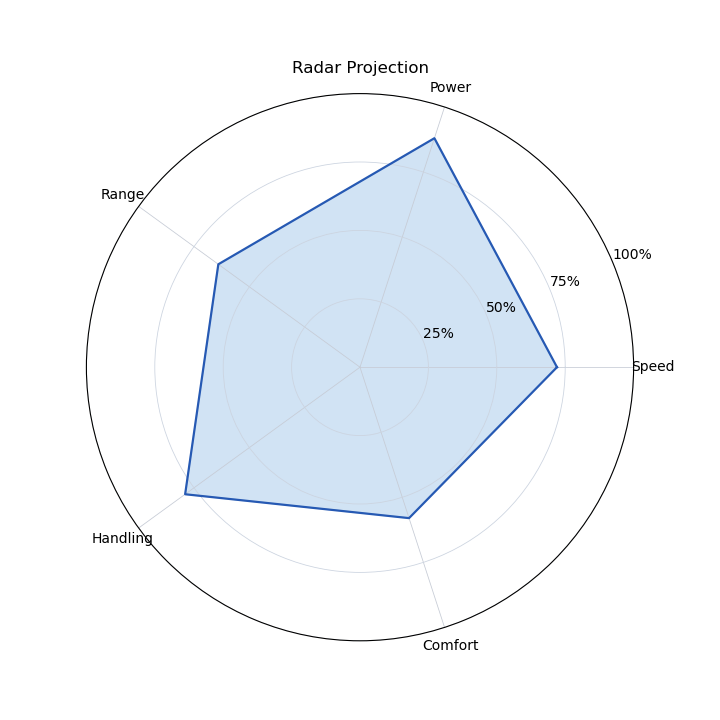
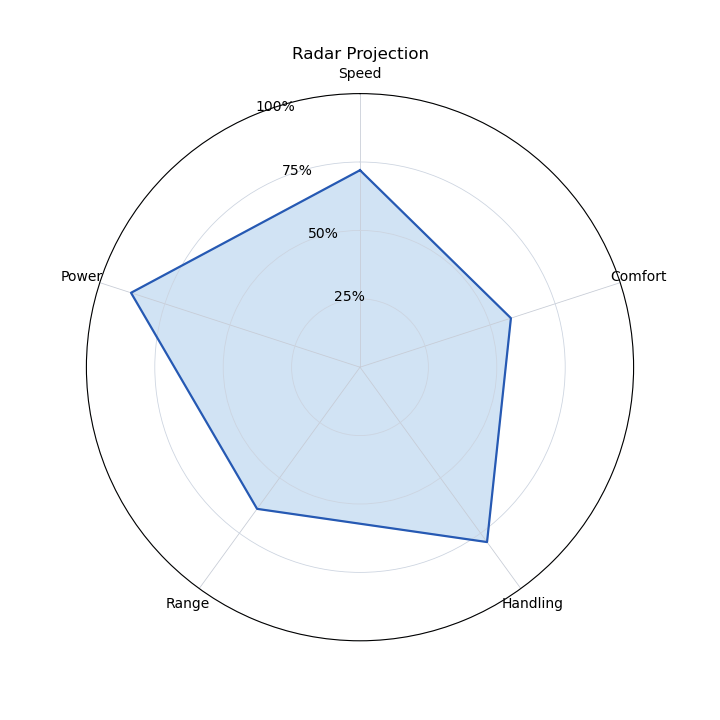
feat: implement shaped glyph rendering and add related tests

diff --git a/backends/agg/agg.go b/backends/agg/agg.go
@@ -18,6 +18,8 @@ import (
 	agglib "github.com/cwbudde/agg_go"
 	"github.com/cwbudde/matplotlib-go/internal/geom"
 	"github.com/cwbudde/matplotlib-go/render"
+	"golang.org/x/image/font/sfnt"
+	"golang.org/x/image/math/fixed"
 )
 
 // dejaVuFontPath holds the path to the extracted DejaVu Sans TTF, initialised once.
@@ -564,9 +566,134 @@ func (r *Renderer) DrawGouraudTriangles(batch render.GouraudTriangleBatch) bool 
 }
 
 // GlyphRun draws a run of glyphs.
-func (r *Renderer) GlyphRun(_ render.GlyphRun, _ render.Color) {
-	// GlyphRun requires glyph-ID-to-character mapping.
-	// Text rendering is done through DrawText helper instead.
+func (r *Renderer) GlyphRun(run render.GlyphRun, textColor render.Color) {
+	if len(run.Glyphs) == 0 || run.Size <= 0 || r.ctx == nil {
+		return
+	}
+
+	if run.FontKey != "" {
+		r.lastFontKey = run.FontKey
+	}
+
+	font := r.configureTextFont(run.Size, r.lastFontKey)
+	if font.backend != textBackendRaster {
+		r.fallback = true
+		_ = r.drawGlyphRunLegacy(run, textColor, r.fontPixelSize(font.size))
+		return
+	}
+
+	if r.drawGlyphRunAsPaths(font.face, run, textColor) {
+		return
+	}
+
+	r.fallback = true
+	_ = r.drawGlyphRunLegacy(run, textColor, r.fontPixelSize(font.size))
+}
+
+func (r *Renderer) drawGlyphRunAsPaths(face render.FontFace, run render.GlyphRun, textColor render.Color) bool {
+	if r.ctx == nil {
+		return false
+	}
+
+	fontSize := r.fontPixelSize(run.Size)
+	if fontSize <= 0 {
+		return false
+	}
+
+	fontData, err := loadSFNTFontFace(face)
+	if err != nil {
+		return false
+	}
+
+	ppem := fixed.Int26_6(math.Round(fontSize * 64))
+	if ppem <= 0 {
+		return false
+	}
+
+	var (
+		path  geom.Path
+		buf   sfnt.Buffer
+		drawn bool
+	)
+	for _, glyph := range run.Glyphs {
+		if glyph.ID == 0 {
+			continue
+		}
+		segments, err := fontData.LoadGlyph(&buf, sfnt.GlyphIndex(glyph.ID), ppem, nil)
+		if err != nil || len(segments) == 0 {
+			continue
+		}
+		appendGlyphSegments(&path, segments, geom.Pt{
+			X: run.Origin.X + glyph.Offset.X,
+			Y: run.Origin.Y + glyph.Offset.Y,
+		})
+		drawn = true
+	}
+	if !drawn {
+		return false
+	}
+
+	r.Path(path, &render.Paint{Fill: textColor})
+	return true
+}
+
+func (r *Renderer) drawGlyphRunLegacy(run render.GlyphRun, textColor render.Color, size float64) bool {
+	if size <= 0 {
+		return false
+	}
+
+	fontPath := r.resolveTextFontPath(run.FontKey)
+	if fontPath == "" {
+		return false
+	}
+
+	drawn := false
+	for _, glyph := range run.Glyphs {
+		if glyph.ID == 0 {
+			continue
+		}
+		origin := geom.Pt{
+			X: run.Origin.X + glyph.Offset.X,
+			Y: run.Origin.Y + glyph.Offset.Y,
+		}
+		if r.drawTextPathFallback(string(rune(glyph.ID)), origin, size, textColor, fontPath) {
+			drawn = true
+		}
+	}
+	return drawn
+}
+
+func appendGlyphSegments(path *geom.Path, segments sfnt.Segments, origin geom.Pt) {
+	for _, segment := range segments {
+		switch segment.Op {
+		case sfnt.SegmentOpMoveTo:
+			path.MoveTo(sfntPoint(segment.Args[0], origin))
+		case sfnt.SegmentOpLineTo:
+			path.LineTo(sfntPoint(segment.Args[0], origin))
+		case sfnt.SegmentOpQuadTo:
+			path.QuadTo(
+				sfntPoint(segment.Args[0], origin),
+				sfntPoint(segment.Args[1], origin),
+			)
+		case sfnt.SegmentOpCubeTo:
+			path.CubicTo(
+				sfntPoint(segment.Args[0], origin),
+				sfntPoint(segment.Args[1], origin),
+				sfntPoint(segment.Args[2], origin),
+			)
+		}
+	}
+}
+
+func sfntPoint(p fixed.Point26_6, origin geom.Pt) geom.Pt {
+	return geom.Pt{
+		X: origin.X + sfntFixedToFloat(p.X),
+		Y: origin.Y + sfntFixedToFloat(p.Y),
+	}
+}
+
+func sfntFixedToFloat(v fixed.Int26_6) float64 {
+	return float64(v) / 64.0
 }
 
 // MeasureText measures text dimensions using the active font engine.

diff --git a/radar_tmp.go b/radar_tmp.go
@@ -1,0 +1,53 @@
+package main
+
+import (
+	"fmt"
+	"github.com/cwbudde/matplotlib-go/backends"
+	_ "github.com/cwbudde/matplotlib-go/backends/all"
+	"github.com/cwbudde/matplotlib-go/core"
+	"github.com/cwbudde/matplotlib-go/internal/geom"
+	"github.com/cwbudde/matplotlib-go/render"
+	"github.com/cwbudde/matplotlib-go/transform"
+)
+
+func main() {
+	cases := []string{"default", "ccw", "cw"}
+	for _, v := range cases {
+		fig := core.NewFigure(720, 720)
+		labels := []string{"Speed", "Power", "Range", "Handling", "Comfort"}
+		ax, err := fig.AddRadarAxes(geom.Rect{Min: geom.Pt{X: 0.12, Y: 0.10}, Max: geom.Pt{X: 0.88, Y: 0.88}}, labels)
+		if err != nil {
+			panic(err)
+		}
+		if v == "cw" {
+			_ = ax.SetThetaDirection("clockwise")
+		}
+		if v == "ccw" {
+			_ = ax.SetThetaDirection("counterclockwise")
+		}
+		ax.SetTitle("Radar Projection")
+		ax.YScale = transform.NewLinear(0, 1)
+		ax.YAxis.Locator = core.FixedLocator{TicksList: []float64{0.25, 0.5, 0.75, 1.0}}
+		ax.YAxis.MinorLocator = nil
+		ax.YAxis.Formatter = core.PercentFormatter{Decimals: 0}
+
+		angles := core.RadarAngles(len(labels))
+		values := []float64{0.72, 0.88, 0.64, 0.79, 0.58}
+		closedAngles := append(append([]float64(nil), angles...), angles[0])
+		closedValues := append(append([]float64(nil), values...), values[0])
+		lineColor := render.Color{R: 0.15, G: 0.35, B: 0.70, A: 1}
+		fillColor := render.Color{R: 0.18, G: 0.50, B: 0.82, A: 0.22}
+		lineWidth := 2.2
+		ax.FillToBaseline(closedAngles, closedValues, core.FillOptions{Color: &fillColor})
+		ax.Plot(closedAngles, closedValues, core.PlotOptions{Color: &lineColor, LineWidth: &lineWidth, Label: "model A"})
+
+		r, _, err := backends.NewRendererFromEnv(backends.Config{Width: 720, Height: 720, Background: render.Color{R: 1, G: 1, B: 1, A: 1}, DPI: 100}, backends.TextCapabilities)
+		if err != nil {
+			panic(err)
+		}
+		if err := core.SavePNG(fig, r, "/tmp/radar_"+v+".png"); err != nil {
+			panic(err)
+		}
+		fmt.Println("wrote", v)
+	}
+}

diff --git a/backends/agg/agg_test.go b/backends/agg/agg_test.go
@@ -426,6 +426,40 @@ func TestMeasureText(t *testing.T) {
 	}
 }
 
+func TestGlyphRunRendersShapedGlyphs(t *testing.T) {
+	r := mustNew(t, 220, 120)
+	viewport := geom.Rect{Min: geom.Pt{X: 0, Y: 0}, Max: geom.Pt{X: 220, Y: 120}}
+	if err := r.Begin(viewport); err != nil {
+		t.Fatalf("Begin failed: %v", err)
+	}
+
+	layout, ok := render.LayoutTextGlyphs("Ag", geom.Pt{}, 24, "DejaVu Sans")
+	if !ok {
+		t.Fatal("LayoutTextGlyphs(\"Ag\") failed")
+	}
+	run := render.GlyphRun{
+		Size:    24,
+		Origin:  geom.Pt{X: 40, Y: 80},
+		FontKey: "DejaVu Sans",
+		Glyphs:  make([]render.Glyph, 0, len(layout.Glyphs)),
+	}
+	for _, glyph := range layout.Glyphs {
+		run.Glyphs = append(run.Glyphs, render.Glyph{
+			ID:     uint32(glyph.GlyphIndex),
+			Offset: glyph.Origin,
+		})
+	}
+
+	r.GlyphRun(run, render.Color{A: 1})
+	if err := r.End(); err != nil {
+		t.Fatalf("End failed: %v", err)
+	}
+
+	if _, _, ok := inkBounds(r.GetImage(), color.RGBA{R: 255, G: 255, B: 255, A: 255}); !ok {
+		t.Fatal("GlyphRun should draw visible text from shaped glyph IDs")
+	}
+}
+
 func TestMeasureTextScalesWithResolution(t *testing.T) {
 	r := mustNew(t, 100, 100)
 

diff --git a/backends/agg/surface.go b/backends/agg/surface.go
@@ -22,6 +22,18 @@ type sfntFontResource struct {
 	data []byte
 }
 
+func (fr *sfntFontResource) LoadGlyph(
+	buf *sfnt.Buffer,
+	glyphIndex sfnt.GlyphIndex,
+	ppem fixed.Int26_6,
+	opts *sfnt.LoadGlyphOptions,
+) (sfnt.Segments, error) {
+	if fr == nil || fr.font == nil {
+		return nil, sfnt.ErrNotFound
+	}
+	return fr.font.LoadGlyph(buf, glyphIndex, ppem, opts)
+}
+
 type fontHeightMetrics struct {
 	ascent  float64
 	descent float64

diff --git a/core/radar_test.go b/core/radar_test.go
@@ -28,10 +28,10 @@ func TestAddRadarAxesConfiguresProjection(t *testing.T) {
 	if !approx(top.X, wantTop.X, 1e-6) || !approx(top.Y, wantTop.Y, 1e-6) {
 		t.Fatalf("theta=0 point = %+v, want %+v", top, wantTop)
 	}
-	right := ctx.DataToPixel.Apply(geom.Pt{X: math.Pi / 2, Y: 1})
-	wantRight := geom.Pt{X: center.X + radius, Y: center.Y}
-	if !approx(right.X, wantRight.X, 1e-6) || !approx(right.Y, wantRight.Y, 1e-6) {
-		t.Fatalf("theta=pi/2 point = %+v, want %+v", right, wantRight)
+	left := ctx.DataToPixel.Apply(geom.Pt{X: math.Pi / 2, Y: 1})
+	wantLeft := geom.Pt{X: center.X - radius, Y: center.Y}
+	if !approx(left.X, wantLeft.X, 1e-6) || !approx(left.Y, wantLeft.Y, 1e-6) {
+		t.Fatalf("theta=pi/2 point = %+v, want %+v", left, wantLeft)
 	}
 
 	r := &polarTextRenderer{}

diff --git a/examples/radar/basic.go b/examples/radar/basic.go
@@ -22,6 +22,10 @@ func main() {
 		fmt.Printf("Error creating radar axes: %v\n", err)
 		return
 	}
+	if err := ax.SetThetaZeroLocation("N"); err != nil {
+		fmt.Printf("Error setting theta zero location: %v\n", err)
+		return
+	}
 
 	ax.SetTitle("Radar Projection")
 	ax.YScale = transform.NewLinear(0, 1)

diff --git a/core/projection.go b/core/projection.go
@@ -169,7 +169,7 @@ func newRadarProjection() *polarProjection {
 	return &polarProjection{
 		name:             "radar",
 		thetaOffset:      math.Pi / 2,
-		thetaDirection:   -1,
+		thetaDirection:   1,
 		radialLabelAngle: math.Pi / 2,
 		radarVariables:   defaultRadarVariables,
 	}

diff --git a/examples/radar/basic.py b/examples/radar/basic.py
@@ -27,6 +27,7 @@ def main():
 
     fig = plt.figure(figsize=(7.2, 7.2), dpi=100, facecolor="white")
     ax = fig.add_axes([0.12, 0.10, 0.76, 0.78], projection="polar")
+    ax.set_theta_zero_location("N")
     ax.set_title("Radar Projection")
     ax.set_thetagrids(np.degrees(angles), labels)
     ax.set_ylim(0, 1)

diff --git a/test/matplotlib_ref/plots/radar_basic.py b/test/matplotlib_ref/plots/radar_basic.py
@@ -23,6 +23,7 @@ def radar_basic(out_dir):
 
     fig = make_fig_px(720, 720)
     ax = fig.add_axes(go_rect(0.12, 0.10, 0.88, 0.88), projection="polar")
+    ax.set_theta_zero_location("N")
     ax.set_title("Radar Projection")
     ax.set_thetagrids(np.degrees(angles), labels)
     ax.set_ylim(0, 1)

diff --git a/PLAN.md b/PLAN.md
@@ -695,7 +695,7 @@ Current slice landed:
 
 **Goal:** make text a shaped glyph pipeline rather than a set of fallback string-drawing paths.
 
-- [ ] Implement AGG `GlyphRun` rendering instead of leaving it as a no-op.
+- [x] Implement AGG `GlyphRun` rendering instead of leaving it as a no-op.
 - [ ] Add a backend-independent shaping layer for OpenType features, ligatures, combining marks, bidi text, script-aware glyph selection, glyph IDs, advances, and offsets.
 - [ ] Route `DrawText`, `DrawTextRotated`, `TextPath`, and measurement through the same shaped run model so raster text, path text, and bounds agree.
 - [ ] Replace `lastFontKey`/`MeasureText` priming with explicit font properties or text draw context passed through the renderer-facing API.